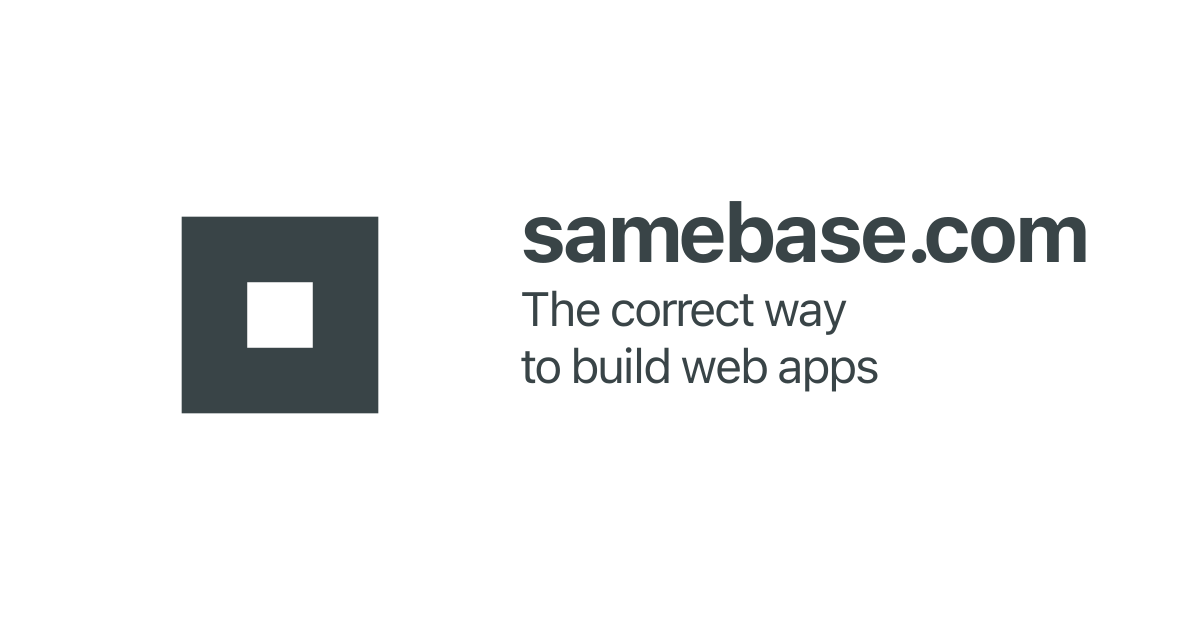
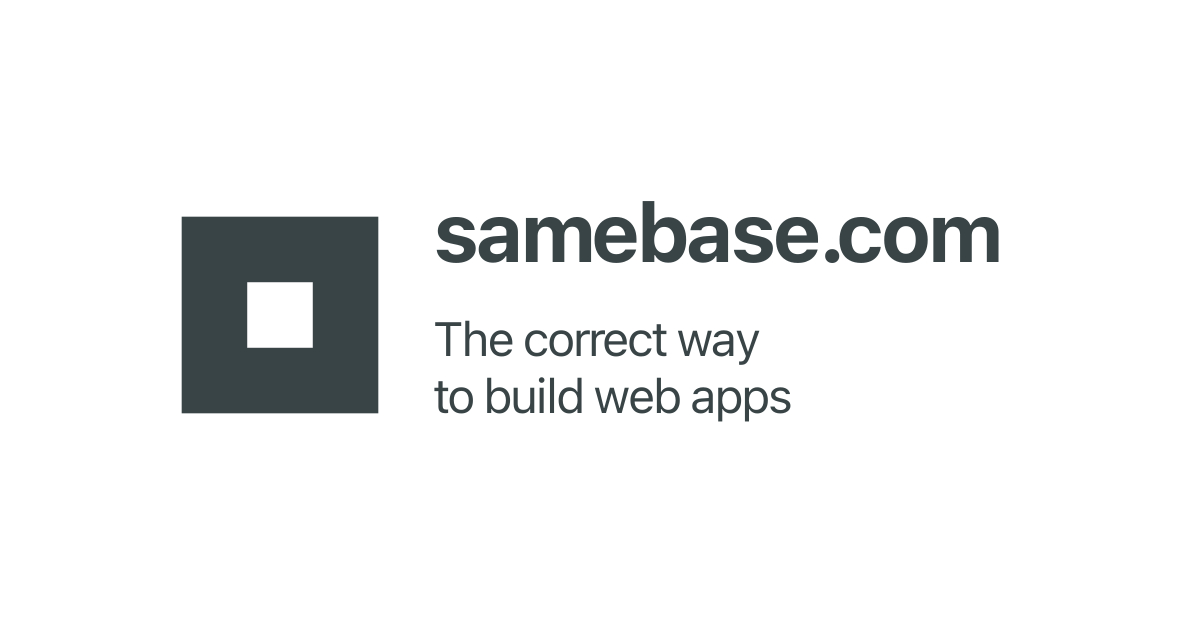
Match social card horizontal and vertical gaps

Changed region(s): [[0.3392, 0.4524, 0.74, 0.6635], [0.37, 0.3016, 0.925, 0.4222]]

diff --git a/apps/samebase/src/components/socialLogoAssets.ts b/apps/samebase/src/components/socialLogoAssets.ts
@@ -9,11 +9,11 @@ const BRAND_PRIMARY_COLOR = "#394447";
 const BRAND_BACKGROUND_COLOR = "#ffffff";
 const SOCIAL_CARD_WIDTH = 1200;
 const SOCIAL_CARD_HEIGHT = 630;
-const SOCIAL_CARD_TEXT_X = 520;
+const SOCIAL_CARD_TEXT_X = 433;
 const SOCIAL_CARD_SITE_NAME_Y = 262;
 const SOCIAL_CARD_SITE_NAME_FONT_SIZE = 82;
-const SOCIAL_CARD_TAGLINE_LINE_ONE_Y = 326;
-const SOCIAL_CARD_TAGLINE_LINE_TWO_Y = 383;
+const SOCIAL_CARD_TAGLINE_LINE_ONE_Y = 356;
+const SOCIAL_CARD_TAGLINE_LINE_TWO_Y = 413;
 const SOCIAL_CARD_TAGLINE_FONT_SIZE = 48;
 const X_PROFILE_LOGO_VIEWPORT_SIZE = 220;
 
